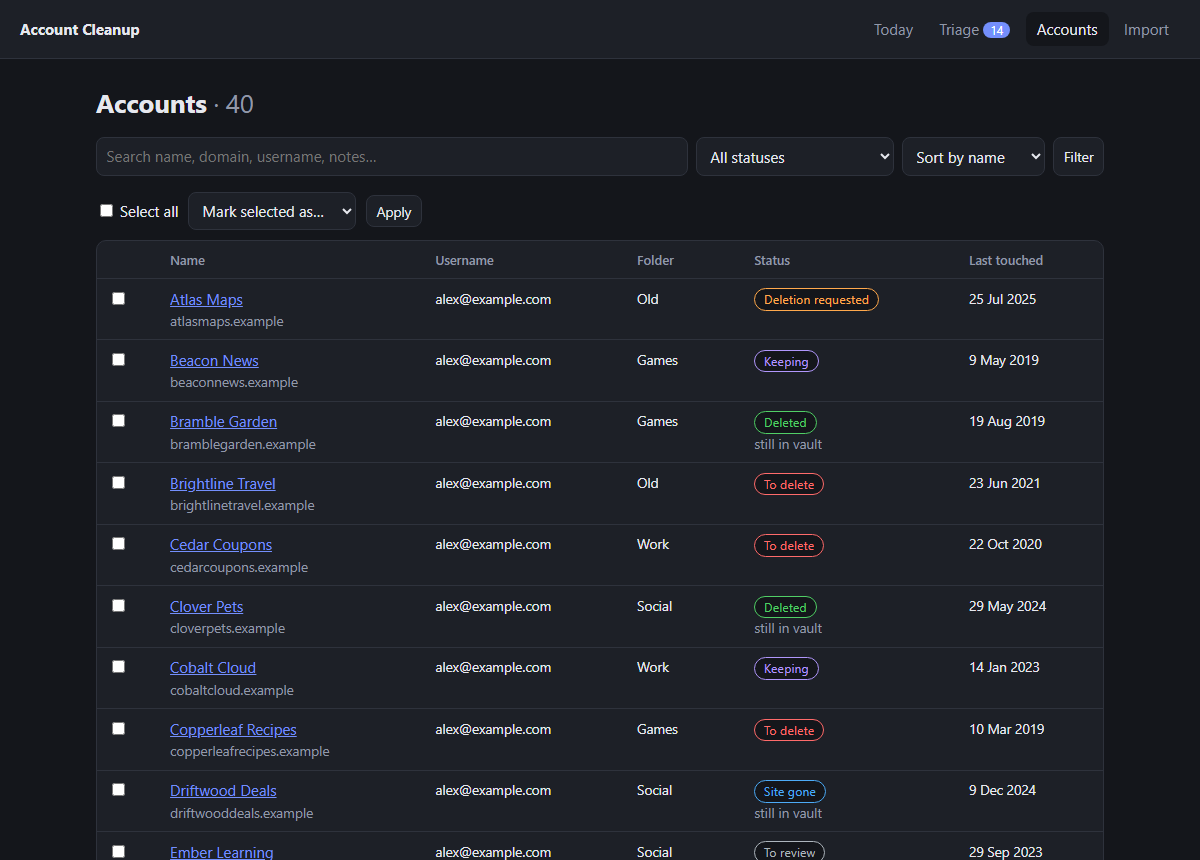
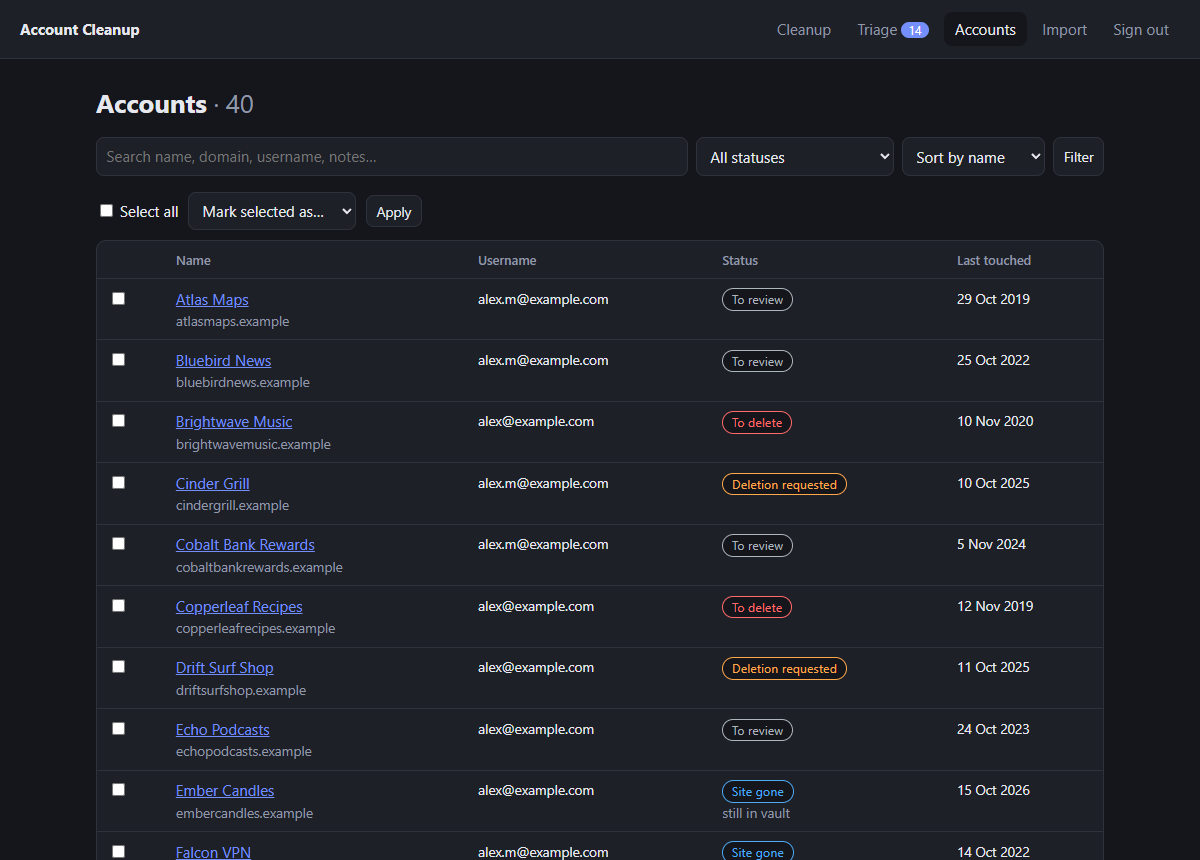
Rename Today to Cleanup; same buttons on every card
- Rename the Today section to Cleanup (nav, text, README) and the
  internals: cleanup_page, cleanup.html, /cleanup/another
- Cleanup card uses the account-page layout: all statuses always visible,
  no "Done" row, no status badge
- Restore the date heading ("Tuesday 10 November · N processed today")
- Reword the TZ docs to refer to the day rolling over
- Retake README screenshots (cleanup.png replaces today.png)

diff --git a/app/templates/_card.html b/app/templates/_card.html
@@ -1,11 +1,4 @@
 {# Expects: a (account row), next_url. Optional: hide_notes, detail (the account page's layout). #}
-{% macro status_button(key, label) -%}
-  {% if a.status == key -%}
-    <span class="btn st-{{ key }} current" title="Current status">✓ {{ label }}</span>
-  {%- else -%}
-    <button name="status" value="{{ key }}" class="btn st-{{ key }}">{{ label }}</button>
-  {%- endif %}
-{%- endmacro %}
 {% macro email_request() -%}
 <div class="email" data-account="{{ a.id }}">
   <h4>Request deletion by email</h4>
@@ -37,12 +30,10 @@ Thank you.</textarea>
         {% if a.vault_updated %}<span title="Last changed in your vault: {{ a.vault_updated|nicedate }}">last touched {{ a.vault_updated|ago }}</span>{% endif %}
       </div>
     </div>
-    {% if not detail %}<span class="badge st-{{ a.status }}">{{ STATUSES[a.status] }}</span>{% endif %}
   </div>
 
   {% if a.notes and not hide_notes %}<p class="notes">{{ a.notes }}</p>{% endif %}
 
-  {% if detail %}
     {# Account page: every status is one click away, and the current one is filled in. #}
     <form method="post" action="{{ url_for('change_status', account_id=a.id) }}">
       <input type="hidden" name="next" value="{{ next_url }}">
@@ -85,38 +76,4 @@ Thank you.</textarea>
     {% if not closed and a.status not in ("keep", "unreviewed") %}
     {{ email_request() }}
     {% endif %}
-  {% elif a.status in CLOSED %}
-    <div class="done-row">
-      <span>✓ Done{% if a.status_changed_at %} {{ a.status_changed_at|nicedate }}{% endif %}</span>
-      {% if not a.vault_removed %}
-        {% if bw_enabled and a.vault_id and not bw_unlocked() %}
-        <a class="btn small" href="{{ url_for('import_page', next=next_url) }}">🔒 Unlock vault to delete from Bitwarden</a>
-        {% elif bw_enabled and a.vault_id %}
-        <form method="post" action="{{ url_for('vault_trash', account_id=a.id) }}"
-              data-msg="Move {{ a.name }}{% if a.username %} ({{ a.username }}){% endif %} to the Bitwarden trash?"
-              onsubmit="return confirm(this.dataset.msg);">
-          <input type="hidden" name="next" value="{{ next_url }}">
-          <button class="btn small danger">Delete from Bitwarden</button>
-        </form>
-        {% endif %}
-        <form method="post" action="{{ url_for('vault_removed', account_id=a.id) }}">
-          <input type="hidden" name="next" value="{{ next_url }}">
-          <button class="btn small">I've removed it from my password manager</button>
-        </form>
-      {% else %}
-        <span class="muted">Removed from vault</span>
-      {% endif %}
-    </div>
-  {% else %}
-    <form method="post" action="{{ url_for('change_status', account_id=a.id) }}">
-      <input type="hidden" name="next" value="{{ next_url }}">
-      <div class="actions">
-        {{ status_button('deleted', 'Account deleted') }}
-        {{ status_button('gone', 'Site gone') }}
-        {{ status_button('requested', 'Deletion requested') }}
-      </div>
-    </form>
-
-    {% if a.status not in ("keep", "unreviewed") %}{{ email_request() }}{% endif %}
-  {% endif %}
 </article>

diff --git a/app/templates/cleanup.html b/app/templates/cleanup.html
@@ -15,12 +15,12 @@
     {% include "_segbar.html" %}
   </section>
 
-  <h1>Today <span class="muted">· {{ day.strftime('%A') }} {{ day.day }} {{ day.strftime('%B') }} · <b>{{ stats.processed_today }}</b> processed today</span></h1>
+  <h1>{{ day.strftime('%A') }} {{ day.day }} {{ day.strftime('%B') }} <span class="muted">· <b>{{ stats.processed_today }}</b> processed today</span></h1>
 
   {% if pick %}
-    {% with a = pick, next_url = url_for('today_page', n=n), hide_notes = true %}{% include "_card.html" %}{% endwith %}
+    {% with a = pick, next_url = url_for('cleanup_page', n=n), hide_notes = true %}{% include "_card.html" %}{% endwith %}
     <form method="post" action="{{ url_for('save_notes', account_id=pick.id) }}" class="panel notes-box" id="notes-form">
-      <input type="hidden" name="next" value="{{ url_for('today_page', n=n) }}">
+      <input type="hidden" name="next" value="{{ url_for('cleanup_page', n=n) }}">
       <label for="notes">Notes</label>
       <textarea id="notes" name="notes" rows="4"
                 placeholder="Where things stand, e.g. emailed support 3 Nov, waiting on a reply">{{ pick.notes }}</textarea>
@@ -36,9 +36,9 @@
   {% endif %}
 
   {# Pinned to the bottom of the screen, so it never moves whatever the card's height. #}
-  <nav class="pager" aria-label="Today's accounts"><div class="pager-inner">
+  <nav class="pager" aria-label="Cleanup accounts"><div class="pager-inner">
     {% if n > 1 %}
-      <a class="btn ghost" href="{{ url_for('today_page', n=n - 1) }}">← Previous account</a>
+      <a class="btn ghost" href="{{ url_for('cleanup_page', n=n - 1) }}">← Previous account</a>
     {% else %}
       <span class="btn ghost disabled" aria-disabled="true">← Previous account</span>
     {% endif %}
@@ -53,7 +53,7 @@
     <h2>Follow up</h2>
     <p class="muted">You asked these to delete your account more than {{ follow_up_days }} days ago. Check whether it's gone.</p>
     {% for a in followups %}
-      {% with next_url = url_for('today_page') %}{% include "_card.html" %}{% endwith %}
+      {% with next_url = url_for('cleanup_page') %}{% include "_card.html" %}{% endwith %}
     {% endfor %}
   {% endif %}
 

diff --git a/app/templates/base.html b/app/templates/base.html
@@ -8,11 +8,11 @@
 </head>
 <body>
   <header class="topbar">
-    <a class="brand" href="{{ url_for('today_page') }}">Account Cleanup</a>
+    <a class="brand" href="{{ url_for('cleanup_page') }}">Account Cleanup</a>
     {% if signed_in %}
     <nav>
       {% set ep = request.endpoint %}
-      <a href="{{ url_for('today_page') }}" class="{{ 'active' if ep == 'today_page' }}">Today</a>
+      <a href="{{ url_for('cleanup_page') }}" class="{{ 'active' if ep == 'cleanup_page' }}">Cleanup</a>
       <a href="{{ url_for('triage') }}" class="{{ 'active' if ep == 'triage' }}">Triage{% if nav_to_review %} <span class="pill">{{ nav_to_review }}</span>{% endif %}</a>
       <a href="{{ url_for('accounts') }}" class="{{ 'active' if ep in ('accounts', 'account_detail') }}">Accounts</a>
       <a href="{{ url_for('import_page') }}" class="{{ 'active' if ep == 'import_page' }}">Import</a>

diff --git a/app/templates/triage.html b/app/templates/triage.html
@@ -4,7 +4,7 @@
 <h1>Triage</h1>
 <p class="muted">
   Quickly sort accounts into keep or delete. Nothing gets deleted here — accounts you mark
-  "Delete" are queued and suggested on the Today page one at a time.
+  "Delete" are queued and suggested on the Cleanup page one at a time.
 </p>
 <section class="stats">
   <div class="progress-label">
@@ -37,7 +37,7 @@
 {% else %}
   <section class="empty">
     <p>Nothing left to triage. 🎉</p>
-    <a class="btn" href="{{ url_for('today_page') }}">Back to Today</a>
+    <a class="btn" href="{{ url_for('cleanup_page') }}">Back to Cleanup</a>
   </section>
 {% endif %}
 {% endblock %}

diff --git a/app/templates/_segbar.html b/app/templates/_segbar.html
@@ -1,4 +1,4 @@
-{# Expects: stats. The segmented bar of accounts by status, shared by Today and Triage. #}
+{# Expects: stats. The segmented bar of accounts by status, shared by Cleanup and Triage. #}
 <div class="segbar" role="list" aria-label="Accounts by status">
   {% for key, label, count in stats.segments %}
     <a class="seg st-{{ key }}" role="listitem" style="flex-grow: {{ count }}"

diff --git a/app/app.py b/app/app.py
@@ -74,7 +74,7 @@ def now_iso():
     return now().isoformat(timespec="seconds")
 
 
-# "Deletion requested" accounts resurface on Today after this many days.
+# "Deletion requested" accounts resurface on Cleanup after this many days.
 FOLLOW_UP_DAYS = 14
 
 
@@ -127,7 +127,7 @@ def require_auth():
 @app.get("/login")
 def login():
     if signed_in():
-        return redirect(safe_next(url_for("today_page")))
+        return redirect(safe_next(url_for("cleanup_page")))
     return render_template("login.html", next=safe_next(""))
 
 
@@ -146,7 +146,7 @@ def login_submit():
     session.clear()
     session["auth"] = login_token()
     session.permanent = True
-    return redirect(safe_next(url_for("today_page")))
+    return redirect(safe_next(url_for("cleanup_page")))
 
 
 @app.post("/logout")
@@ -316,7 +316,7 @@ def healthz():
 
 
 @app.get("/")
-def today_page():
+def cleanup_page():
     conn = db.get_db()
     cutoff = (now() - timedelta(days=FOLLOW_UP_DAYS)).isoformat(timespec="seconds")
     followups = conn.execute(
@@ -331,7 +331,7 @@ def today_page():
     n = request.args.get("n", type=int) or len(picks)
     n = max(1, min(n, len(picks))) if picks else 0
     return render_template(
-        "today.html",
+        "cleanup.html",
         pick=picks[n - 1] if picks else None,
         n=n,
         # Total to work through: today's suggestions so far plus everything still waiting.
@@ -344,7 +344,7 @@ def today_page():
     )
 
 
-@app.post("/today/another")
+@app.post("/cleanup/another")
 def another_pick():
     """Next account: step forward through today's suggestions, adding a new one at the end."""
     conn = db.get_db()
@@ -352,12 +352,12 @@ def another_pick():
     count = conn.execute("SELECT COUNT(*) FROM daily_picks WHERE day = ?", (day,)).fetchone()[0]
     n = request.form.get("n", type=int) or count
     if n < count:
-        return redirect(url_for("today_page", n=n + 1))
+        return redirect(url_for("cleanup_page", n=n + 1))
     if add_pick(conn, day) is None:
         flash("Nothing left to suggest - everything is reviewed, queued or snoozed.", "info")
-        return redirect(url_for("today_page", n=n))
+        return redirect(url_for("cleanup_page", n=n))
     conn.commit()
-    return redirect(url_for("today_page", n=count + 1))
+    return redirect(url_for("cleanup_page", n=count + 1))
 
 
 @app.get("/triage")
@@ -440,12 +440,12 @@ def change_status(account_id):
     status = request.form.get("status", "")
     set_status(conn, account_id, status)
     conn.commit()
-    return redirect(safe_next(url_for("today_page")))
+    return redirect(safe_next(url_for("cleanup_page")))
 
 
 @app.post("/account/<int:account_id>/notes")
 def save_notes(account_id):
-    """Notes box under the Today card. Saved in the background before moving on, or with its Save button."""
+    """Notes box under the Cleanup card. Saved in the background before moving on, or with its Save button."""
     conn = db.get_db()
     get_account(conn, account_id)
     conn.execute(
@@ -454,7 +454,7 @@ def save_notes(account_id):
     conn.commit()
     if request.headers.get("X-Requested-With") == "fetch":
         return "", 204
-    return redirect(safe_next(url_for("today_page")))
+    return redirect(safe_next(url_for("cleanup_page")))
 
 
 @app.post("/account/<int:account_id>/snooze")
@@ -471,7 +471,7 @@ def snooze(account_id):
     if removed:
         add_pick(conn, day)  # swap in a replacement for today's suggestion
     conn.commit()
-    return redirect(safe_next(url_for("today_page")))
+    return redirect(safe_next(url_for("cleanup_page")))
 
 
 @app.post("/account/<int:account_id>/vault")
@@ -482,7 +482,7 @@ def vault_removed(account_id):
     removed = 0 if request.form.get("removed") == "0" else 1
     conn.execute("UPDATE accounts SET vault_removed = ? WHERE id = ?", (removed, account_id))
     conn.commit()
-    return redirect(safe_next(url_for("today_page")))
+    return redirect(safe_next(url_for("cleanup_page")))
 
 
 @app.post("/account/<int:account_id>/remove")
@@ -646,7 +646,7 @@ def import_upload():
         " You can now delete the export file.",
         "success",
     )
-    return redirect(url_for("today_page"))
+    return redirect(url_for("cleanup_page"))
 
 
 @app.get("/export.csv")

diff --git a/README.md b/README.md
@@ -10,7 +10,7 @@
 A small self-hosted web app for working through your old online accounts and
 deleting the ones you no longer need — a little at a time.
 
-![Today: one suggested account at a time, with the status bar above](docs/screenshots/today.png)
+![Cleanup: one suggested account at a time, with the status bar above](docs/screenshots/cleanup.png)
 
 1. **Import** a Bitwarden export (`.json` or `.csv`; other password managers' CSVs work too).
    Only names, URLs, usernames, folders and dates are kept — passwords, 2FA seeds and notes are discarded.
@@ -19,11 +19,11 @@ deleting the ones you no longer need — a little at a time.
    **Or sync straight from Bitwarden** with an API key, and delete logins from your vault from inside the
    app (see [Bitwarden sync](#bitwarden-sync-optional)).
 2. **Triage** (optional): rapid-fire Keep / Delete / Not sure, with keyboard shortcuts `K` `D` `S`.
-3. **Today**: the app suggests one account at a time. Do as many or as few as you like: click
+3. **Cleanup**: the app suggests one account at a time. Do as many or as few as you like: click
    **Next account** for another. Accounts you queued for deletion
    come first, then unreviewed ones — oldest-touched first, since those are most likely forgotten.
-   Each card has a link to the site, a GDPR erasure email template and buttons for
-   **Account deleted** / **Site gone** / **Deletion requested**.
+   Each card links to the site, shows every status as a button, and includes a GDPR erasure
+   email template (subject and body, each with a copy button) for accounts you're deleting.
 4. **Track** each account as *To review → To delete → Deletion requested → Deleted* (or *Keeping* / *Site gone*).
    Requests older than 14 days resurface as follow-ups, and deleted accounts remind you to remove them
    from your password manager.
@@ -83,7 +83,7 @@ Version tags such as `:1.0.0` are published for tagged releases, if you'd rather
 
 | Variable | Default | Purpose |
 | --- | --- | --- |
-| `TZ` | `UTC` | Time zone used to decide when "today" changes |
+| `TZ` | `UTC` | Time zone used to decide when the day changes (the "processed today" count resets) |
 | `APP_USERNAME` | **required** | Username for the web UI login |
 | `APP_PASSWORD` | **required** | Password for the web UI login. The container won't start without both |
 | `BW_CLIENTID` / `BW_CLIENTSECRET` | *(unset)* | Bitwarden personal API key; turns on [Bitwarden sync](#bitwarden-sync-optional) |
